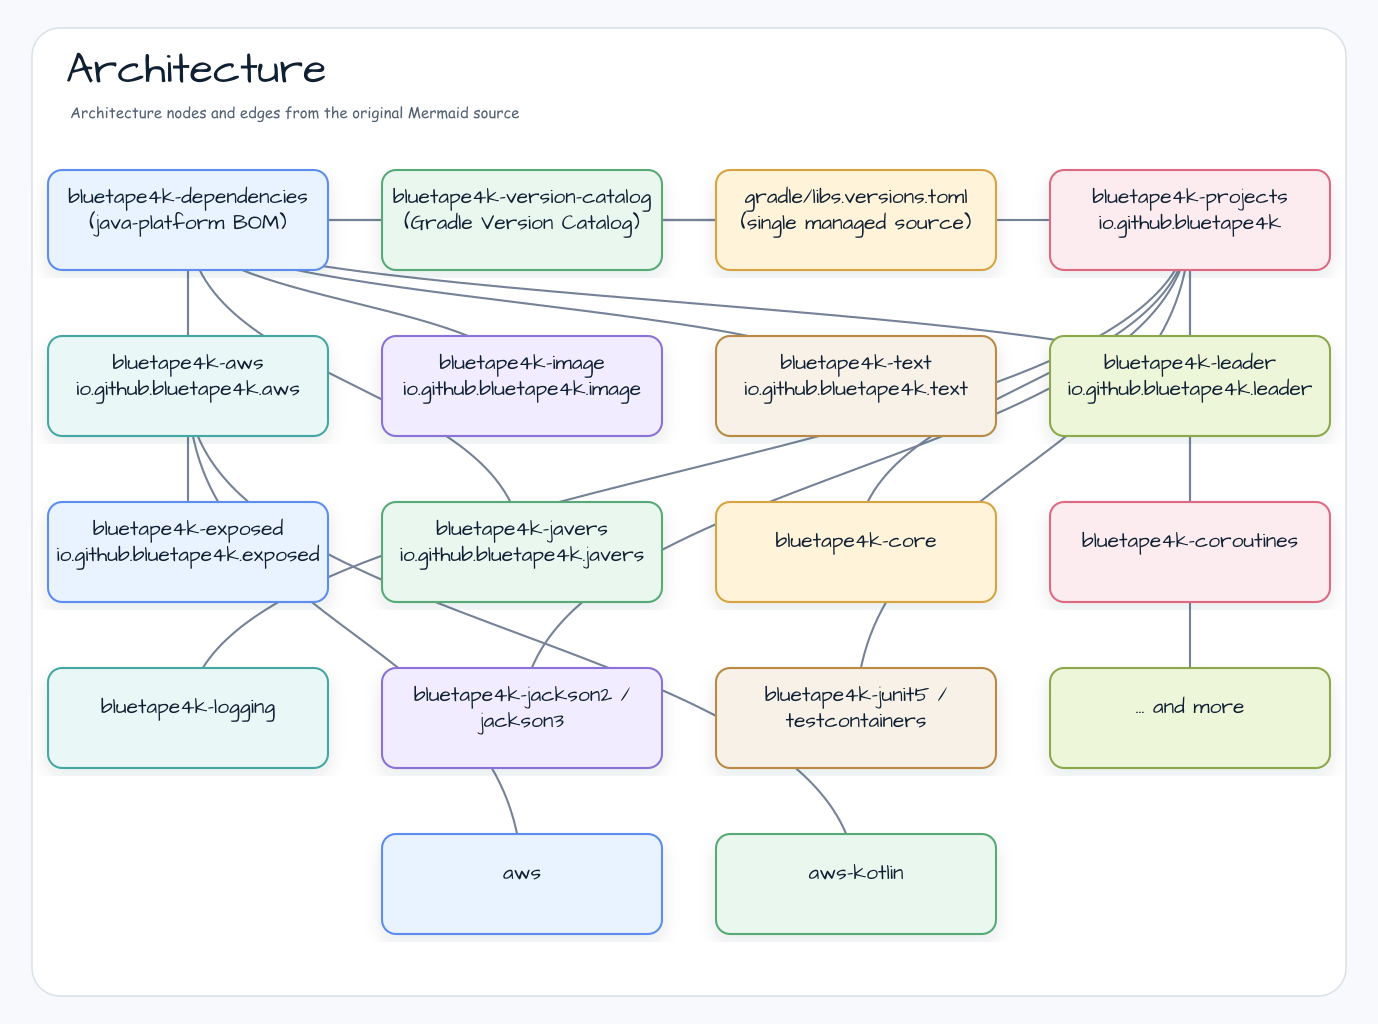
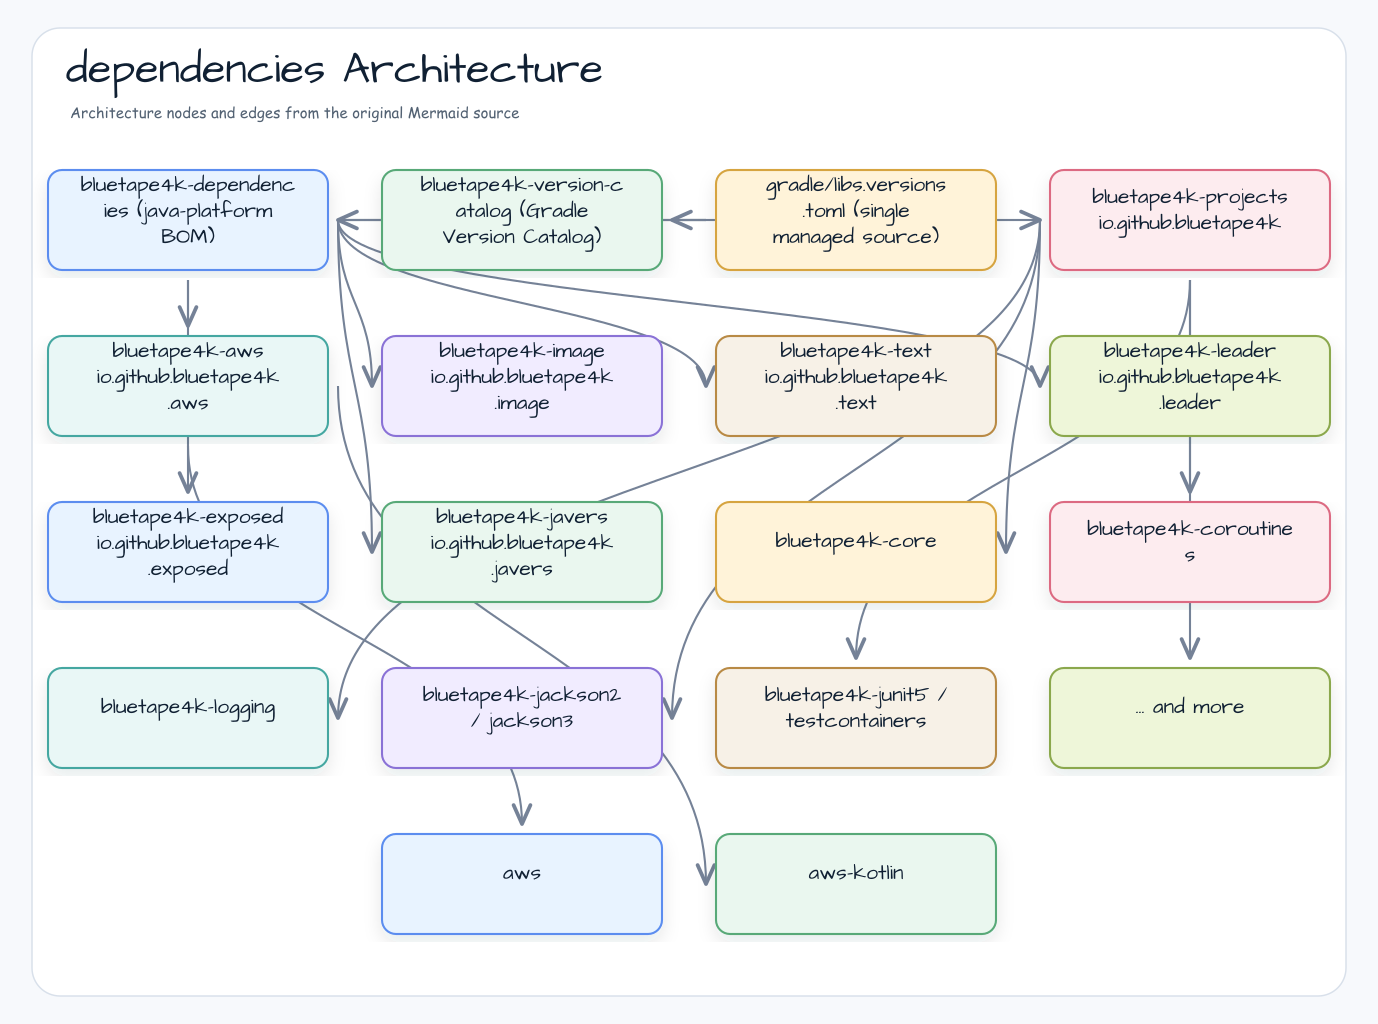
Improve README diagram readability
Regenerate README diagram assets with readable spacing, source-backed labels, and preserved SVG sources. Keep architecture diagrams near the top of module READMEs and add missing README coverage where the audit found gaps.

Constraint: Diagrams must use English labels, avoid overlapping text, avoid clipped sequence labels, preserve SVG and PNG assets, and keep README docs aligned with current source.

Rejected: Reusing fixed-size UML-like layouts | they caused clipped text, near-zero arrows, and misleading filler labels.

Confidence: high

Scope-risk: moderate

Directive: Treat Mermaid history as source material, but verify final README claims against current source before regenerating diagrams.

Tested: workspace README diagram audit critical findings = 0; git diff --check; changed SVGs parsed with xmllint; changed PNGs identified with ImageMagick; targeted Gradle help for newly documented modules where applicable.

Not-tested: Full Gradle test suites were not run because this is a documentation and image-asset update.

diff --git a/README.ko.md b/README.ko.md
@@ -44,7 +44,7 @@ constraint와 Gradle build alias를 한 곳에 모아 이 문제를 해결합니
 
 ## 구조
 
-![Structure diagram](docs/images/readme-diagrams/bluetape4k-dependencies-architecture-01.png)
+![dependencies Architecture diagram](docs/images/readme-diagrams/bluetape4k-dependencies-architecture-01.png)
 
 ---
 

diff --git a/README.md b/README.md
@@ -44,7 +44,7 @@ constraints and Gradle build aliases in one place.
 
 ## Architecture
 
-![Architecture diagram](docs/images/readme-diagrams/bluetape4k-dependencies-architecture-01.png)
+![dependencies Architecture diagram](docs/images/readme-diagrams/bluetape4k-dependencies-architecture-01.png)
 
 ---
 
